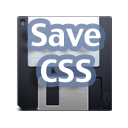
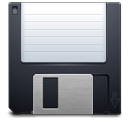
improved save rules ui logic strip query string from path manifest ver 2 optional security to python script

diff --git a/devtools.html b/devtools.html
@@ -1,29 +1,4 @@
-<script>
-chrome.devtools.inspectedWindow.onResourceContentCommitted.addListener(function(resource, content) {
-    // CSS or JS was changed, we got the content
-
-    if (resource.type == "document")
-        return; // don't bother with this type
-
-    var payload = { "body": content, "url":resource.url, "type":resource.type };
-
-    // send data to background page
-    chrome.extension.sendRequest(payload, function(response) {});
-});
-
-// create new panel
-chrome.devtools.panels.create("Save", "ico-disk.png", "panel.html",
-                    function(panel) {
-    /*deb('panel loaded');*/
-
-    // reset error msg
-    localStorage.error = "";
-
-    panel.onShown.addListener(function(w) {
-
-        w.refreshPage();
-    });
-
-});
-</script>
+<html>
+<script src="dev.js"></script>
+</html>
 

diff --git a/panel.js b/panel.js
@@ -34,11 +34,13 @@ function saveMappings() {
     }
     localStorage.mappings = JSON.stringify(list);
 
+    /*
     // flash message
     elem("saved").style.opacity = 1;
     setTimeout(function(){
         elem("saved").style.opacity = 0;
     }, 500);
+    */
 }
 
 // populate ui from localStorage
@@ -149,13 +151,14 @@ elem("rules").addEventListener('click', function(e) {
         var tr = t.parentNode.parentNode;
         tr.parentNode.removeChild(tr);
         e.preventDefault();
+
+        saveMappings();
     }
 }, false);
 
-// save all rules
-elem("save").addEventListener('click', function(e) {
+// save all rules on focusout event
+elem("rules").addEventListener('focusout', function(e) {
     saveMappings();
-    loadMappings();
 }, false);
 
 

diff --git a/dev.js b/dev.js
@@ -1,0 +1,24 @@
+chrome.devtools.inspectedWindow.onResourceContentCommitted.addListener(function(resource, content) {
+    // CSS or JS was changed, we got the content
+
+    if (resource.type == "document")
+        return; // don't bother with this type
+
+    var payload = { "body": content, "url":resource.url, "type":resource.type };
+
+    // send data to background page
+    chrome.extension.sendRequest(payload, function(response) {});
+});
+
+// create new panel
+chrome.devtools.panels.create("Save", "ico-disk.png", "panel.html",
+                    function(panel) {
+    // reset error msg
+    localStorage.error = "";
+
+    panel.onShown.addListener(function(w) {
+
+        w.refreshPage();
+    });
+});
+

diff --git a/bg.js b/bg.js
@@ -12,6 +12,9 @@ function uploadToExternalServer(serverurl, type, origurl, fpath, body, forced) {
     var xhr = new XMLHttpRequest();
     xhr.open('POST', serverurl, true);
 
+    // remove possible query string
+    fpath = fpath.split("?")[0];
+
     xhr.setRequestHeader("X-origtype", type);
     xhr.setRequestHeader("X-origurl", origurl);
     xhr.setRequestHeader("X-filepath", fpath);

diff --git a/panel.html b/panel.html
@@ -48,7 +48,7 @@
 
     <h2>Mappings: &nbsp;
         <a href="#" class="but" id="addnew">Create</a>
-        <a href="#" class="but" id="save">Save</a> <span id="saved">Saved!</span></h2>
+    </h2>
 
     <table>
         <thead>

diff --git a/servers/server.py b/servers/server.py
@@ -23,19 +23,31 @@ class MyServer(BaseHTTPRequestHandler):
 
         reply = "OK"
 
-        # save file
-        try:
-            f = open(fpath, "wb")
-            f.write(body)
-            f.close()
-        except Exception, e:
-            print e
-            reply = "Server couldn't save "+fpath
+        # optional security: check that path is under given folder
+        ROOT = ""
+        if ROOT and not fpath.startswith(ROOT):
+            reply = "access denied: " + fpath
+        else:
+            # save file
+            try:
+                f = open(fpath, "wb")
+                f.write(body)
+                f.close()
+            except Exception, e:
+                print e
+                reply = "Server couldn't save "+fpath
 
         # return reply
         self.send_response(200)
         self.end_headers()
         self.wfile.write(reply)
+
+
+# optional security: chroot this script to a folder, run with
+#   "sudo python server.py"
+# (remember to adjust your url mappings in the extension too)
+# import os
+# os.chroot("/Users/myusername/")
 
 # start http server
 server = HTTPServer(('localhost', 8080), MyServer)
